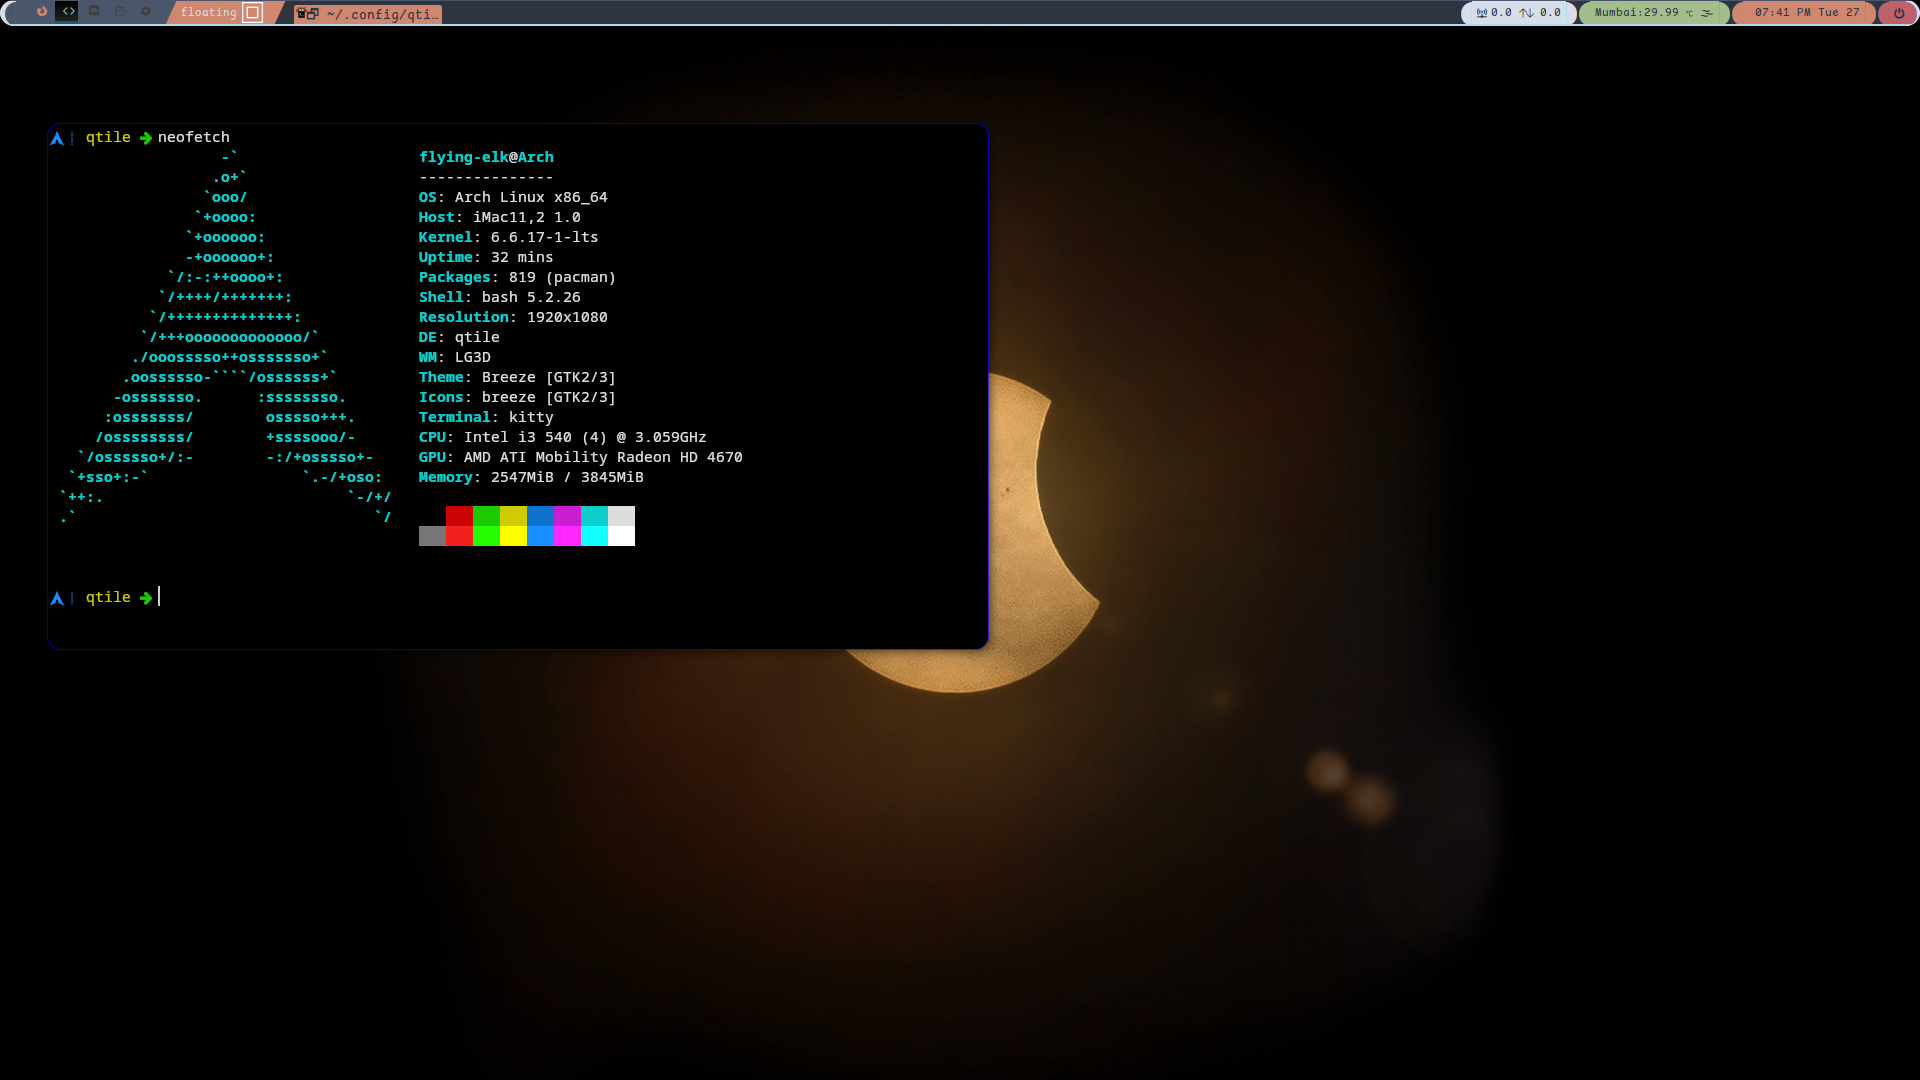
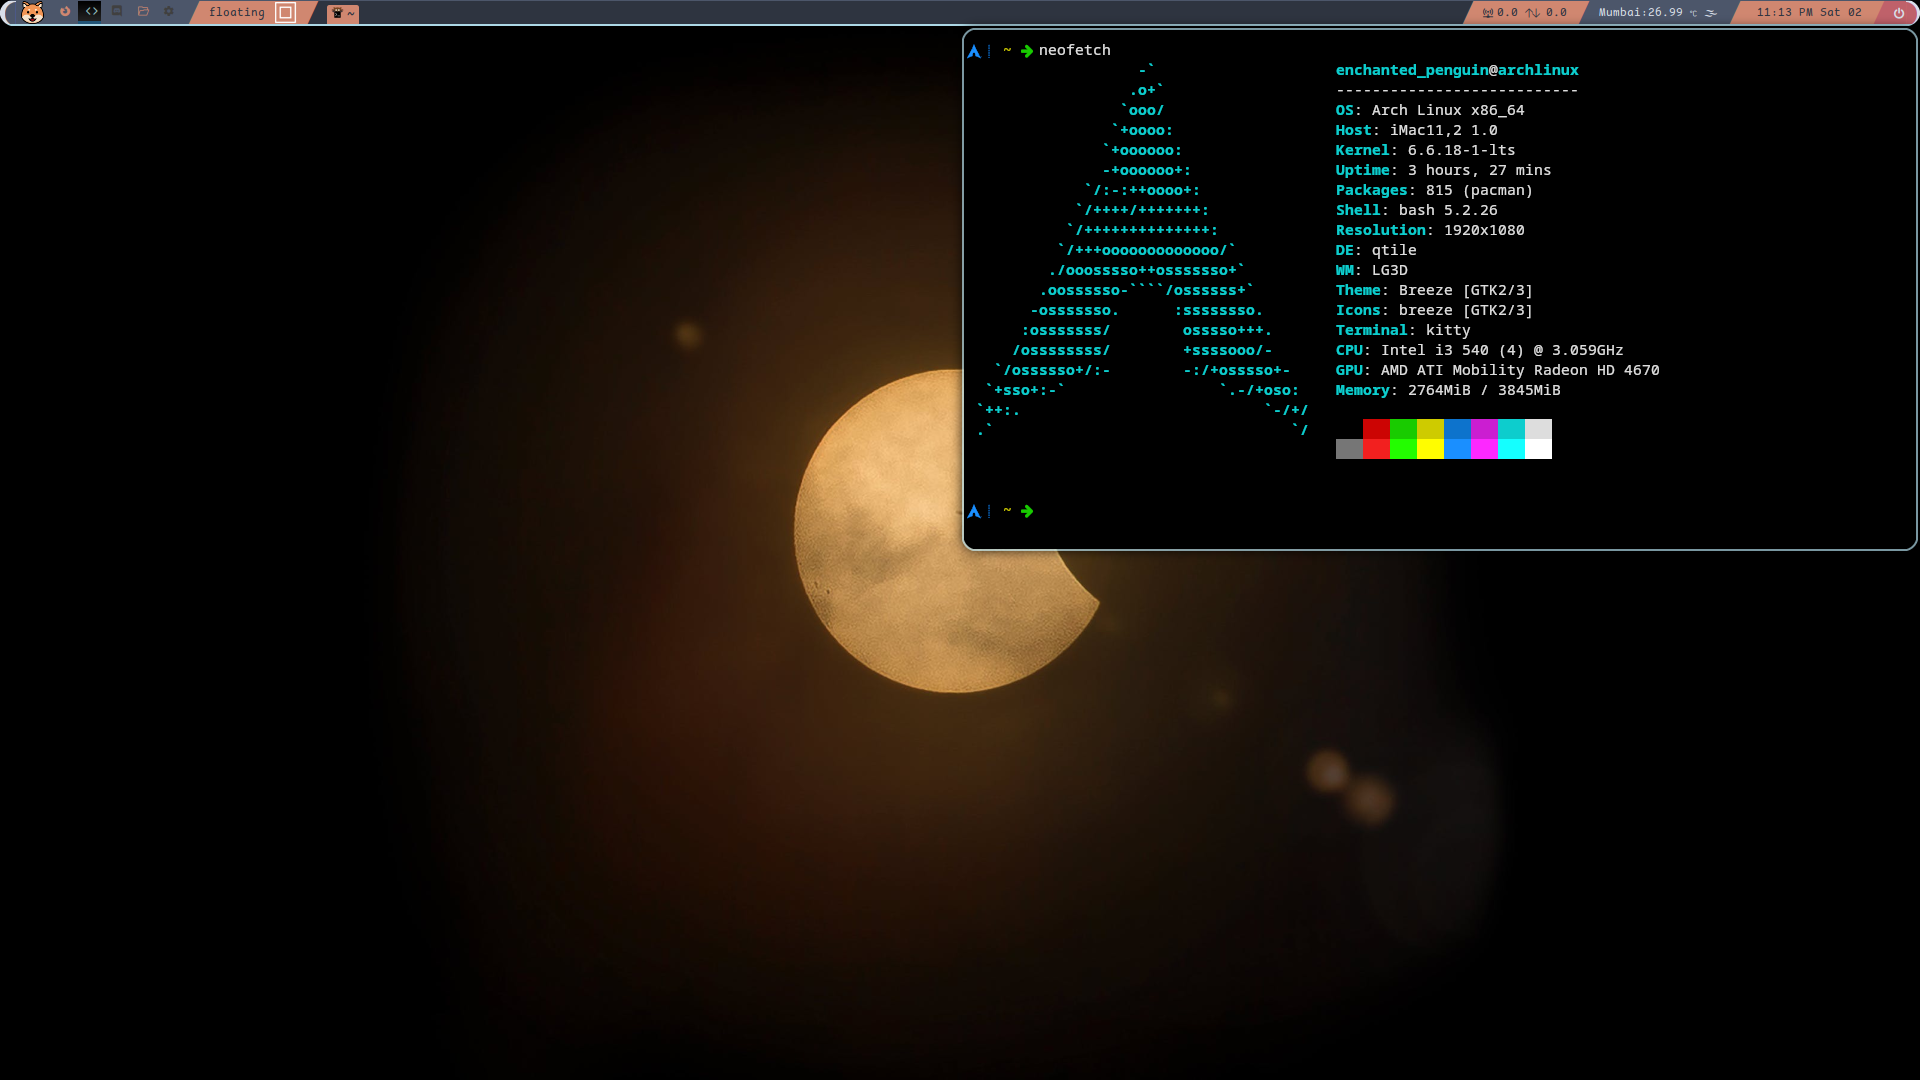
update qtile design and add showimage alias bashrc

diff --git a/.config/qtile/config.py b/.config/qtile/config.py
@@ -156,6 +156,14 @@ def lower_left_triangle(bg_color, fg_color):
         background=bg_color,
         foreground=fg_color)
 
+def lower_right_triangle(bg_color, fg_color):
+    return TextBox(
+            text='\ue0b8',
+            padding=0,
+            margin=0,
+            fontsize=40,
+            background=bg_color,
+            foreground=fg_color)
 
 def left_arrow(bg_color, fg_color):
     return TextBox(
@@ -215,6 +223,7 @@ layouts = [
     # layout.TreeTab(),
     # layout.VerticalTile(),
     # layout.Zoomy(),
+    layout.Floating(border_focus=["#add8e6", "#add8e6"], border_width=2, margin=2, rounded_borders=1)
 ]
 
 #colors for the bar
@@ -251,7 +260,7 @@ screens = [
                 widget.Spacer(background=colors[0], length=5),
                 left_half_circle(colors[2], colors[0]),
                 widget.Spacer(background=colors[2], length=5),
-                widget.Image(filename='~/Pictures/happy.png'),
+                widget.Image(filename='~/.config/qtile/wallpapers/happy.png'),
 
                 widget.Spacer(background=colors[2], length=5),
 
@@ -262,13 +271,13 @@ screens = [
                                 urgent_text=colors[4]),
 
                 lower_left_triangle(colors[2], colors[9]),
-                widget.CurrentLayout(background = colors[9], foreground=colors[0], margin=0, padding=0),
-                widget.CurrentLayoutIcon(background=colors[9], foreground=colors[1]),
+                widget.CurrentLayout(background = colors[9], foreground=colors[1], margin=0, padding=5),
+                widget.CurrentLayoutIcon(background=colors[9], foreground=colors[2]),
                 lower_left_triangle(colors[9], colors[1]),
 
                 # right_arrow(colors[1], colors[2]),
                 widget.TaskList(
-                    padding=0,
+                    padding=3,
                     background=colors[1],
                     foreground=colors[1],
                     border=colors[9],
@@ -276,12 +285,12 @@ screens = [
                     max_title_width=150,
                     spacing=10,
                     fontsize=14,
-                    unfocused_border=colors[8],
+                    unfocused_border=colors[2],
                     # opacity=0.8,
                     txt_floating="🗗 ",
                     txt_maximized="🗖 ",
                     txt_minimized="🗕 ",
-                    urgent_border="colors[1]"
+                    urgent_border=colors[1]
                 ),
 
                 # arrow_left,
@@ -310,35 +319,41 @@ screens = [
                 #
                 widget.Spacer(background=colors[1], length=2),
 
-                left_half_circle(colors[0], colors[1]),
-                widget.Net(format=' {up}  {down}', background=colors[0]),
-                right_half_circle(colors[0], colors[1]),
+                # left_half_circle(colors[0], colors[1]),
+                lower_left_triangle(colors[1], colors[9]),
+                widget.Net(format=' {up}  {down}', background=colors[9], foreground=colors[1]),
+                # right_half_circle(colors[0], colors[1]),
+                lower_left_triangle(colors[9], colors[2]),
 
                 # left_arrow(colors[0], colors[3]),
-                widget.Spacer(background=colors[1], length=2),
+                # widget.Spacer(background=colors[1], length=2),
 
-                left_half_circle(colors[3], colors[1]),
+                # left_half_circle(colors[3], colors[1]),
                 widget.OpenWeather(
                     location="mumbai",
-                    background=colors[3],
+                    background=colors[2],
+                    foreground=colors[0],
                     format='{location_city}:{temp}  {icon}',
                     app_key=os.environ.get('APIKEY'),
                 ),
-                right_half_circle(colors[3], colors[1]),
+                # right_half_circle(colors[2], colors[1]),
+                lower_left_triangle(colors[2], colors[9]),
 
-                widget.Spacer(background=colors[1], length=2),
+                # widget.Spacer(background=colors[1], length=2),
 
                 # left_arrow(colors[3], colors[9]),
-                left_half_circle(colors[9], colors[1]),
-                widget.Clock(format=" %I:%M %p %a %d", background=colors[9]),
-                right_half_circle(colors[9], colors[1]),
+                # left_half_circle(colors[9], colors[1]),
+                widget.Clock(format=" %I:%M %p %a %d", background=colors[9], foreground=colors[1]),
+                # right_half_circle(colors[9], colors[1]),
+                lower_left_triangle(colors[9], colors[6]),
 
-                widget.Spacer(background=colors[1], length=2),
+                # widget.Spacer(background=colors[1], length=2),
 
                 # widget.Battery(),
                 # left_arrow(colors[9], colors[6]),
-                left_half_circle(colors[6], colors[1]),
-                widget.QuickExit(background=colors[6], fmt=''),
+                # lower_left_triangle(colors[6], colors[1]),
+                widget.QuickExit(background=colors[6], fmt='', foreground=colors[0], 
+                                 countdown_format='[ {} seconds ]'),
                 # widget.Spacer(background=colors[6], length=10),
                 right_half_circle(colors[6], colors[0]),
 
